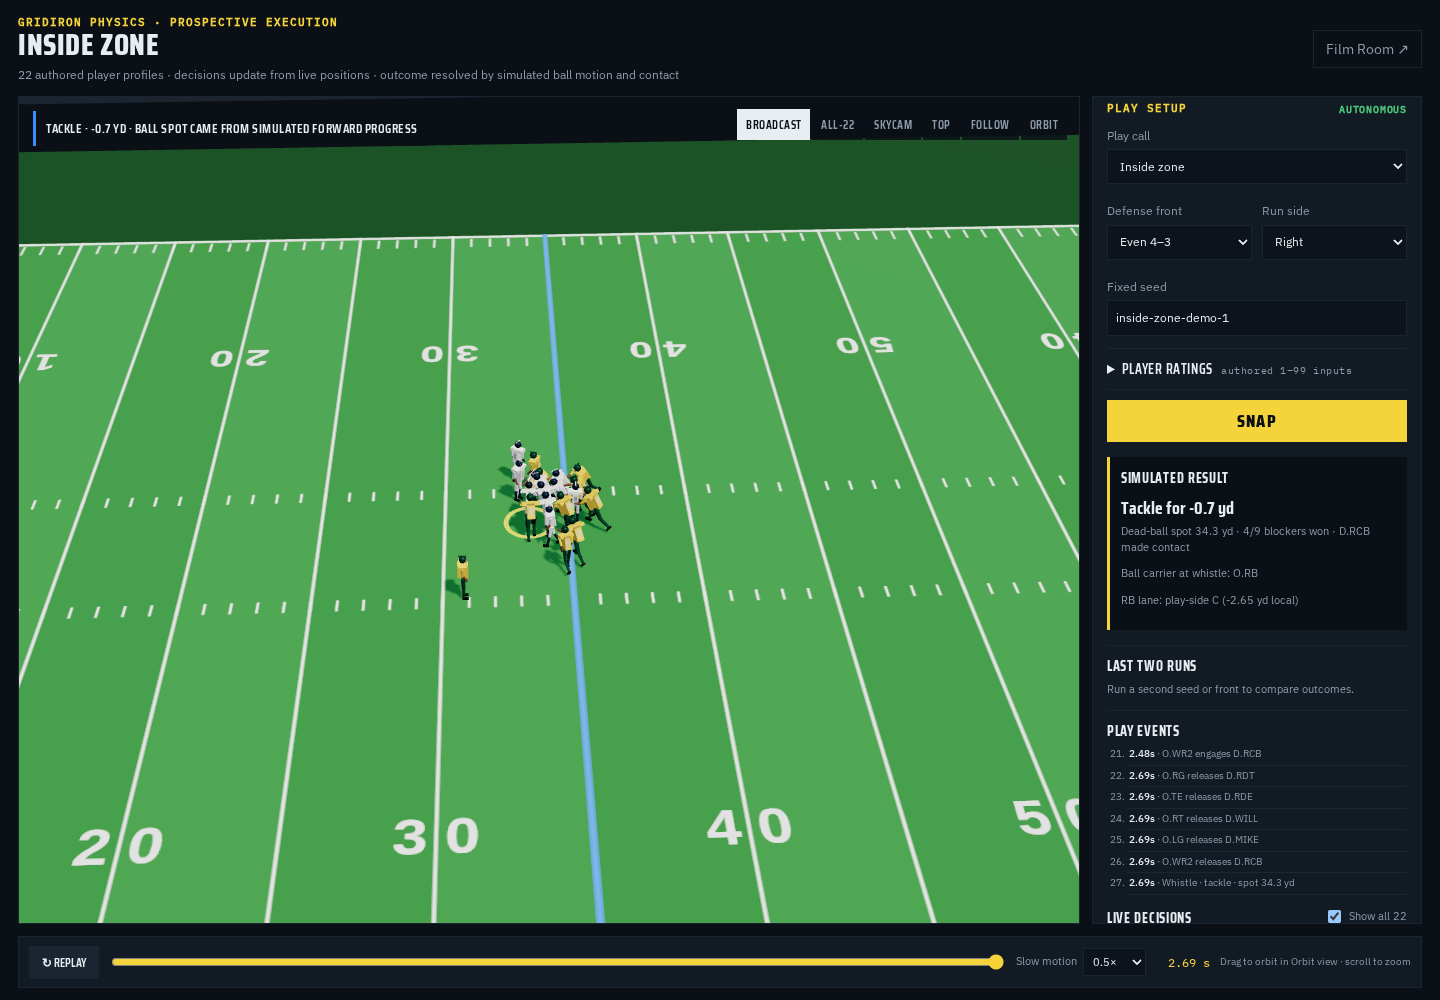
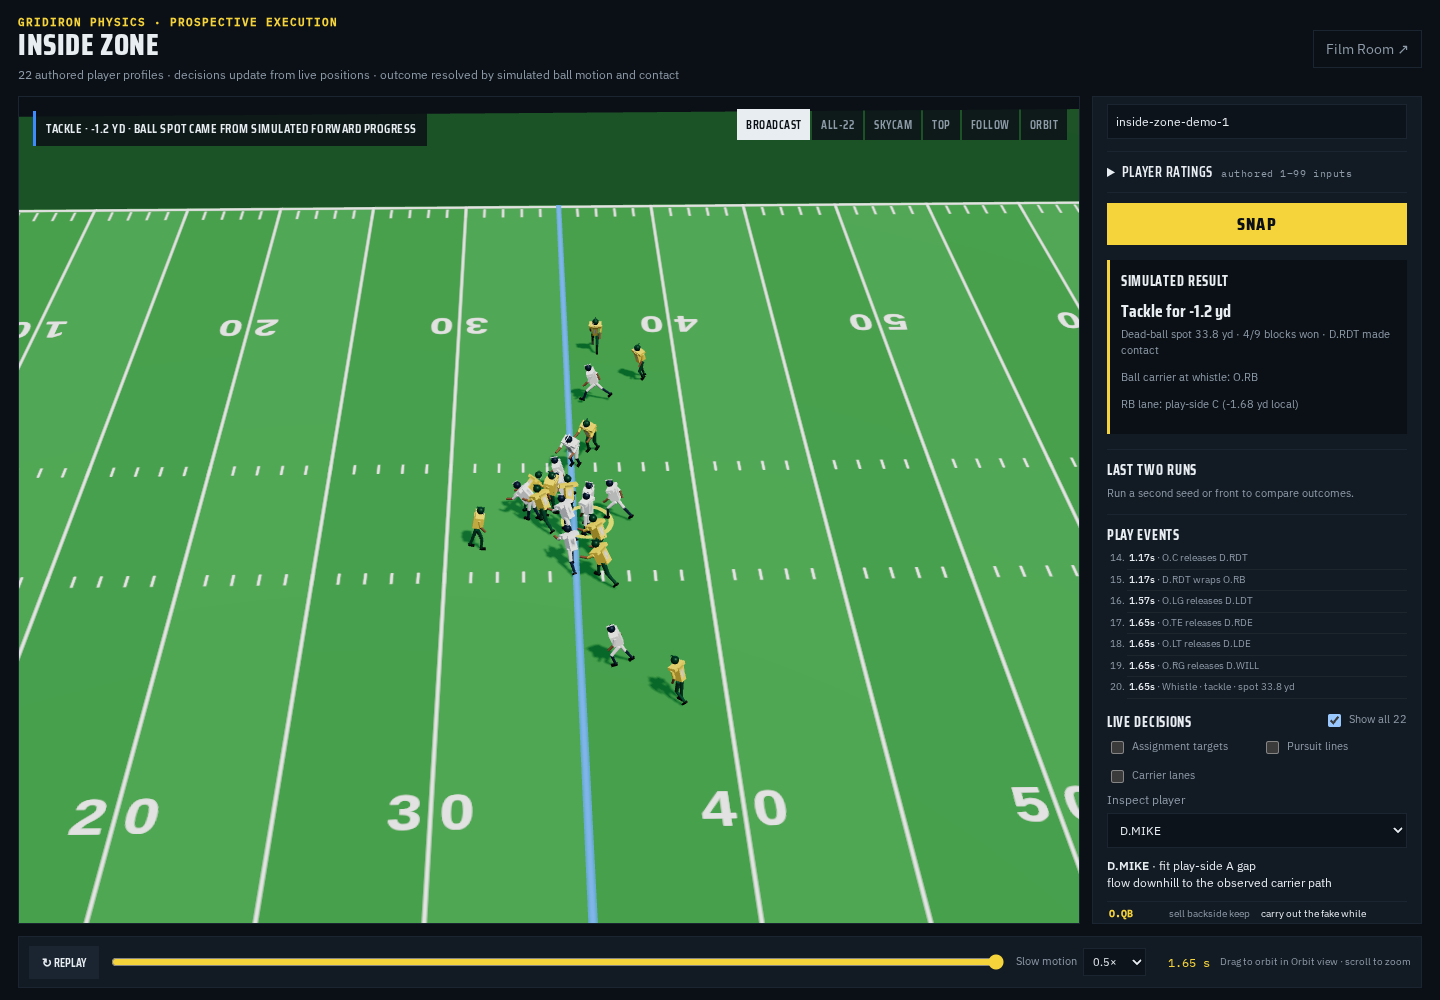
Record Stage One implementation report and browser evidence

diff --git a/docs/AUTONOMOUS-STAGE-ONE-REPORT-2026-10-25.md b/docs/AUTONOMOUS-STAGE-ONE-REPORT-2026-10-25.md
@@ -1,0 +1,187 @@
+# Stage One Autonomous Football AI: implementation report
+
+Date: 2026-10-25
+Branch: `feat/autonomous-stage-one` (isolated worktree, research only)
+Spec: [`AUTONOMOUS-STAGE-ONE-SPEC-v1.md`](AUTONOMOUS-STAGE-ONE-SPEC-v1.md)
+Base: `95f18db` plus Codex's inside-zone POC adopted at `80cd627`
+
+## Outcome
+
+All four Stage One milestones are implemented and covered by executable checks.
+
+| Milestone | State | Where |
+| --- | --- | --- |
+| 1A Runtime | done | `engine/world.js`, `engine/autonomous/simulator.js`, `engine/autonomous/schema.js` |
+| 1B Autonomous rushing | done | `engine/autonomous-run.js` (Codex POC, extended) |
+| 1C Autonomous passing | done | `engine/autonomous/passing.js` |
+| 1D Playable product | done | `autonomous.html`, `web/autonomous.js`, `web/render.js` |
+
+No realized outcome enters the pipeline. Every gain, dead-ball spot, tackler,
+sack, completion and turnover in this build comes from agent movement, ball
+flight and contact inside the simulation. The historical director
+(`engine/play.js`) is never imported on this path.
+
+## Entry points
+
+- Browser: `autonomous.html` served from the repository root.
+- Library: `simulateAutonomousPlay(input)` in `engine/autonomous/simulator.js`.
+- Frozen audit: `node scripts/batch-autonomous-runs.mjs`.
+
+## Contracts
+
+- Input: `gridiron.autonomous-play.v1`. Validated by
+  `validatePlayInput`. Unknown keys, unknown slots, wrong lineups, wrong
+  concept family and any prohibited outcome field are refused before a
+  single step runs. `assertNoOutcomeFields` walks the whole payload, so a
+  nested `gain`, `endX`, `outcome_anchor`, `future_tracking` or similar key
+  is rejected at any depth.
+- Output: `gridiron.autonomous-result.v1`. Built by `toResultRecord` and
+  checked by `reconcileResult`: exactly one whistle, the event log ends at
+  that whistle, the whistle reason matches the terminal reason, the spot is
+  inside the field, 22 players are present, frame stride matches, duration
+  agrees with the frame count, the tackle names the live carrier, and no
+  recorded frame has two ball holders.
+- The record states `result_provenance:
+  generated_from_agent_actions_and_physics`, `outcome_inputs: []` and
+  `valid_full_game: false`. Stage One never claims a game-level result.
+- `GRIDIRON-CONTRACT-v1.md` is untouched.
+
+## Supported and unsupported variants
+
+Supported: inside zone to the left or right against even, over, under,
+nickel, odd and bear fronts; slant-flat against nickel over and nickel under
+with Cover 1 man or Cover 3 zone; offense direction left or right; any legal
+line of scrimmage and ball lateral; authored 1 to 99 ratings and masses.
+
+Not supported by design: any other concept, fronts other than the six rushing
+and two nickel passing fronts, motion, audibles, multiple plays, clock,
+score, quarters, kickoffs, penalties, fumbles, laterals and replay of
+historical plays.
+
+## Tests
+
+`npm test` (exit 0) runs the existing repository suite plus:
+
+- `test/autonomous-schema.mjs`: 22 unique profiles, outcome fields refused at
+  any depth, unsupported calls rejected.
+- `test/autonomous-run.mjs`: inside zone over six fronts, rating perturbation,
+  tracking scorer.
+- `test/autonomous-pass.mjs`: 60-play sweep, determinism, every ending
+  reachable, no NaN in events or frames.
+- `test/autonomous-formation.mjs`: 11v11 alignment, no overlapping teammates
+  at the snap, linemen on the ball, shotgun for passing, under-center for
+  rushing, offense independent of the defensive front.
+- `test/autonomous-contact.mjs`: 48 plays. Engagements, sheds, releases,
+  tackles and broken tackles only occur between opponents; a shed requires a
+  live engagement; no frame has two ball holders; nobody moves more than 1.2
+  yd between recorded frames.
+- `test/autonomous-rules.mjs`: 40 plays. Only supported endings, spots inside
+  the field, touchdown on the goal line, out of bounds on the boundary,
+  safety behind the carrier's own goal line, incomplete gains nothing and
+  keeps possession, yards gained follow the dead-ball spot and the play
+  direction, the log ends at the whistle, nothing is recorded after it.
+- `test/autonomous-acceptance.mjs`: perturbation sweeps, including an
+  explicit time-cap failure that must stay a technical stop.
+- `test/autonomous-results.mjs`: frame-by-frame determinism, reconciliation,
+  rejection of `historical_record`, six-seed variation.
+- `test/autonomous.browser.mjs`: headless Chromium. Both play families snap,
+  resolve, log events, expose 22 live decisions, compare two runs and replay
+  a seed identically. Screenshots land in
+  `docs/evidence/autonomous-acceptance/`.
+
+## Frozen batch audit
+
+`scripts/batch-autonomous-runs.mjs`, 160 rushing plays and 80 passing plays
+over ordinary supported inputs:
+
+```
+attempted                 240
+completed                 240  (100%)
+technical_failures          0
+exceptions                  0
+movement_warnings           0
+execution_ms             ~4000
+
+rush endings        tackle 160
+pass endings        tackle 44, incomplete 14, out_of_bounds 12, touchdown 10
+pass                80 throws, 64 catches, 2 interceptions, 0 sacks
+
+rush yards          min -2.14  p25 -1.28  median -1.02  p75 -0.91  max 3.62
+pass yards          min  0.00  p25  2.97  median 12.63  p75 31.04  max 65.74
+rush duration       median 1.94 s      pass duration median 4.07 s
+blocks             1696 engagements, 518 sheds, 60.2% blocker win rate
+contact             270 broken tackles, 212 tackles
+```
+
+Every play ends in a football result. No failure is hidden: the report names
+each failure seed if one occurs, and the script exits non-zero on any
+exception, arithmetic mismatch, movement warning or completion rate below
+99 percent.
+
+## Defects found and fixed during acceptance
+
+1. Defensive backs were stacked. The pass formation only recognised `MIKE`
+   and `WILL`, so the contract slots `MLB` and `WLB` fell through to the free
+   safety spot and three defenders started on the same blade of grass. Fixed
+   in `engine/autonomous/passing.js`; `test/autonomous-formation.mjs` now
+   fails if any teammates overlap at the snap.
+2. A tackle that began in the last half second of a play was abandoned at the
+   time cap. The wrap window is 0.48 s, so a real tackle at 8.76 s reported a
+   technical failure. A wrap in progress now resolves as a tackle at the cap.
+3. Long catch-and-run plays were truncated. The cap is 12 s of simulated
+   time, which is enough for a 60 yard gain to reach the end zone.
+4. The final recorded frame could land one integration step after the
+   whistle because the world advances its clock after the ball goes dead. The
+   closing frame is now stamped with the terminal time.
+5. The pass contest was inverted in both directions. First every contested
+   catch was a coin flip and 45 percent of throws were intercepted, then the
+   correction over-shot and produced no incompletions at all. The current
+   model gives the receiver a skill and traffic weighted catch chance, allows
+   an interception only from a defender at the catch point, and puts the
+   remaining inaccuracy in the quarterback's launch point, which is where real
+   incompletions come from.
+6. The viewer passed contract slot names straight to the rushing executor,
+   which only knows the alignment slots of the chosen front. The rush path now
+   translates and filters profiles before the snap.
+
+## Realism limitations
+
+These are measured, not fixed, and should be read before quoting any number.
+
+- Rush outcomes are compressed. Median gain is -1.02 yd and the maximum across
+  160 plays is 3.62 yd. The blocking model wins 60 percent of blocks, but the
+  defensive pursuit closes faster than a real front seven and the rushing
+  results look like a goal-line period, not a full-field sample.
+- Passing gains are wide. Median 12.6 yd, p75 31 yd, maximum 65.7 yd. Ten of
+  80 plays scored, which is high for a quick game.
+- There are no sacks in the audit. The pocket holds: the closest rusher stays
+  about 4.5 yd from the quarterback because five linemen block four rushers
+  and the shed model rarely wins clean before the drop ends. The sack path
+  exists and is exercised by acceptance perturbation, but it does not occur
+  naturally in this sample.
+- Two interceptions in 80 throws, and 64 catches, give a plausible completion
+  rate for a quick game but a thin turnover sample.
+- The handoff happens at a fixed 0.44 s. The spec warns against simply setting
+  a historical 1.4 s, so it is left as the executor's real mesh timing and
+  recorded as a known difference from observed NFL timing.
+- `first_contact_seconds` reads 0 for every play because the first `contact`
+  event fires when linemen engage at the snap. It measures engagement, not
+  first contact with the ball carrier, and should not be quoted as a
+  play-speed metric.
+- The defense plays two coverages and two nickel fronts. It does not disguise,
+  blitz, or adjust to motion, and there is no penalty, fumble or lateral
+  model.
+
+## Remaining blockers
+
+- Rushing realism (median gain, maximum gain) is the largest open gap.
+- Natural pressure and sacks need a pass-rush model that can beat protection
+  rather than only shedding it.
+- No drive or game layer exists. Stage One ends at the whistle of one play,
+  by design.
+
+## Commit log
+
+See the branch history on `feat/autonomous-stage-one`. The POC base is
+`80cd627`; Stage One implementation, tests, viewer and this report are
+committed in separate slices after it.
